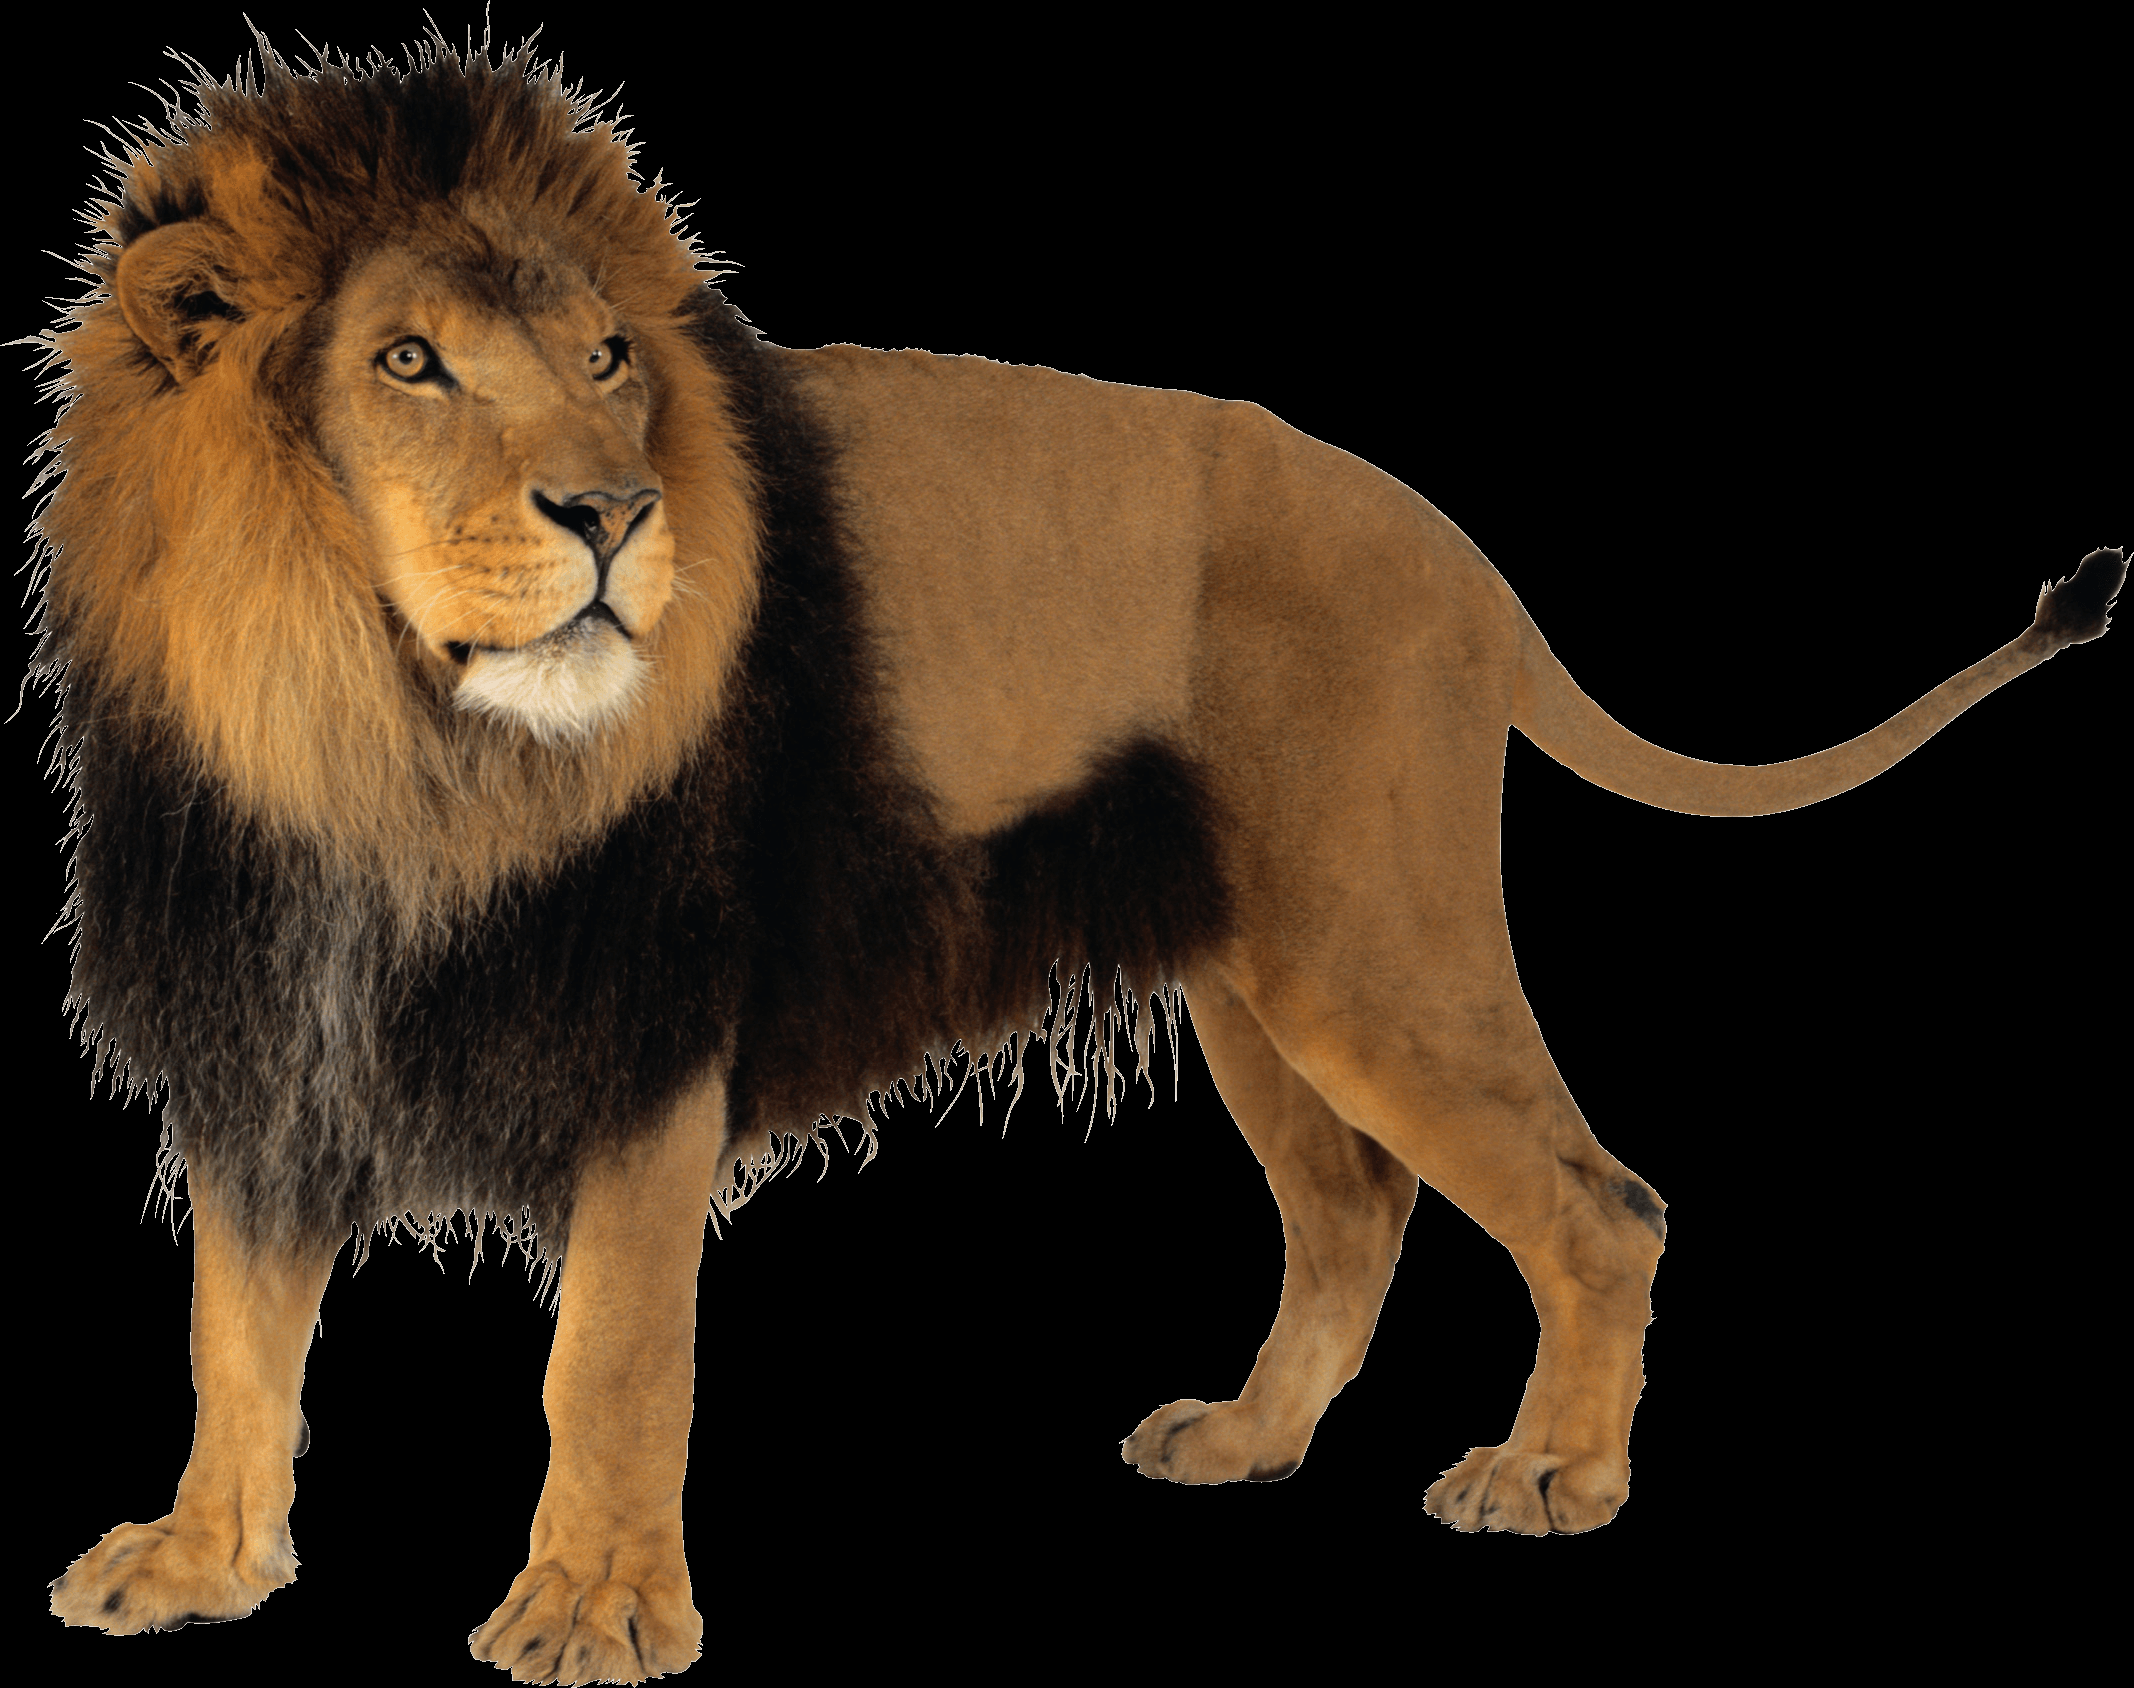
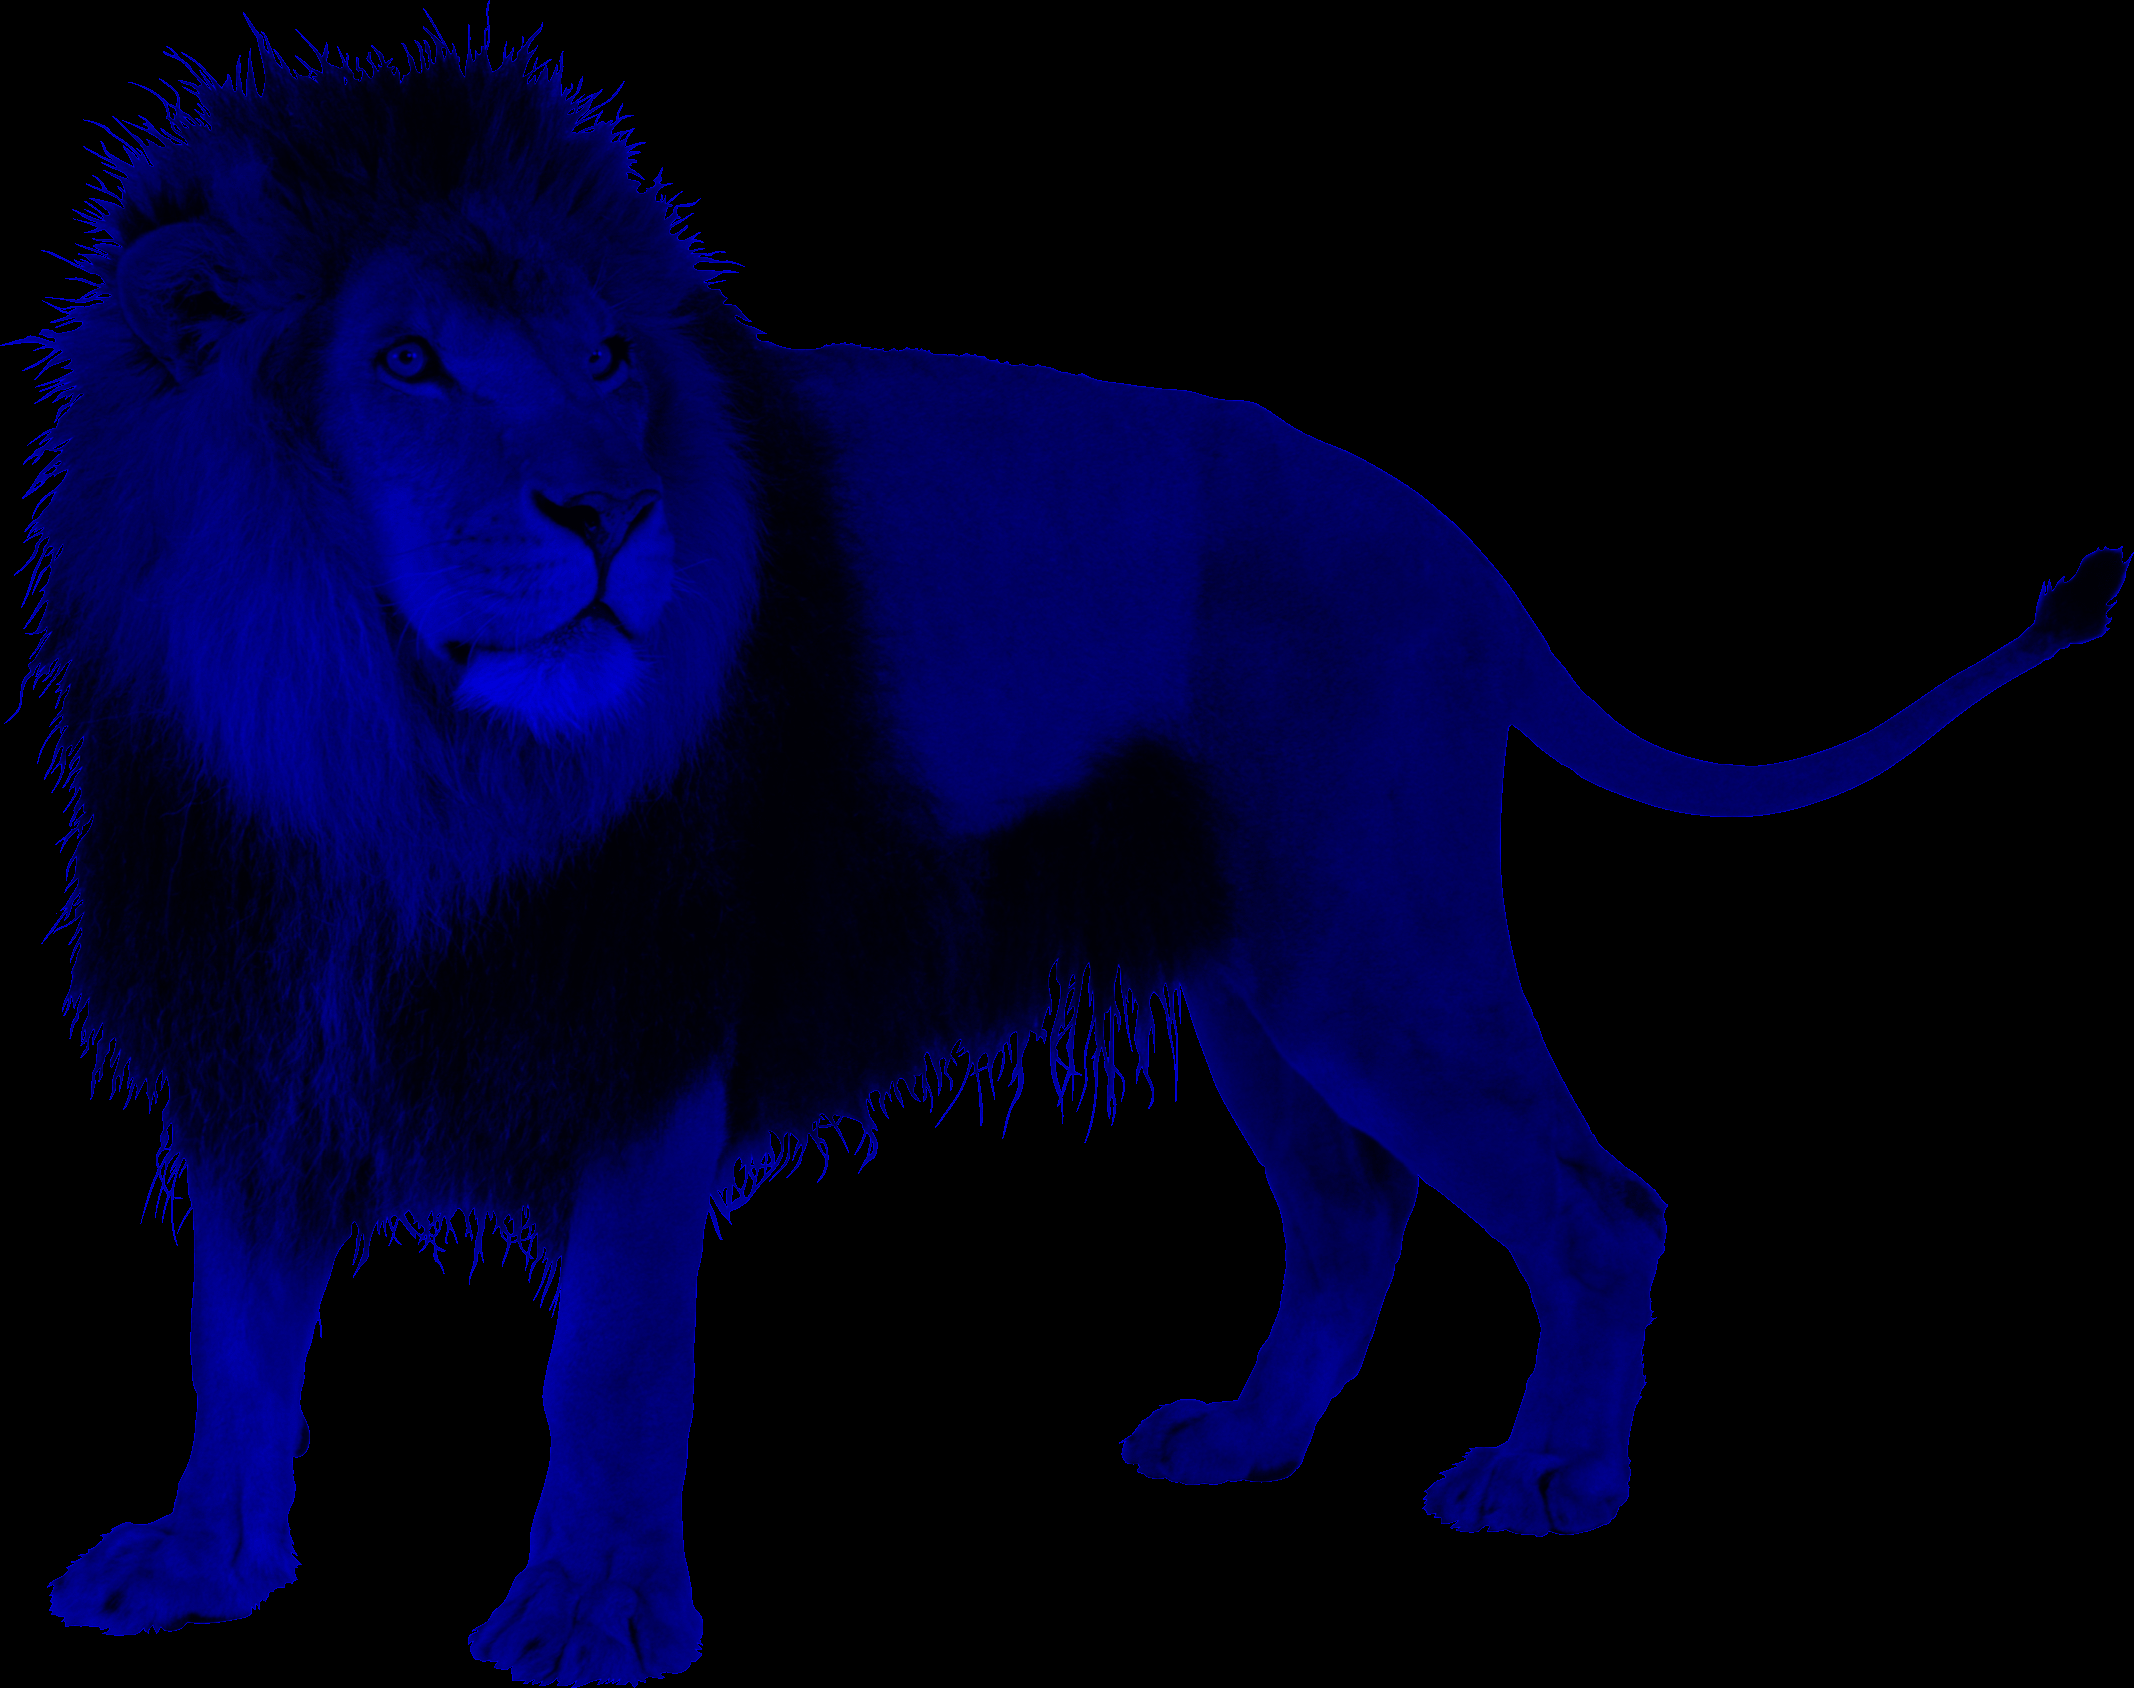
noir

diff --git a/untitled/src/ImageNoirEtBlanc.java b/untitled/src/ImageNoirEtBlanc.java
@@ -1,0 +1,36 @@
+import javax.imageio.ImageIO;
+import java.awt.*;
+import java.awt.image.BufferedImage;
+import java.io.File;
+import java.io.IOException;
+
+public class ImageNoirEtBlanc {
+
+    public void processImage(String nomFichier) {
+        try {
+            String nomFichier1 = nomFichier.substring(0, nomFichier.lastIndexOf("."));
+            String chemin = "src/assets/" + nomFichier;
+            File inputfile = new File(chemin);
+            BufferedImage originalImage = ImageIO.read(inputfile);
+
+            BufferedImage newImage = new BufferedImage(originalImage.getWidth(), originalImage.getHeight(), BufferedImage.TYPE_3BYTE_BGR);
+
+            for (int y = 0; y < originalImage.getHeight(); y++) {
+                for (int x = 0; x < originalImage.getWidth(); x++) {
+                    int rgb = originalImage.getRGB(x, y);
+                    int[] tabColor = OutilCouleur.getTabColor(rgb);
+                    int moyenne = (tabColor[0] + tabColor[1] + tabColor[2]) / 3;
+                    Color gris = new Color(moyenne, moyenne, moyenne);
+                    newImage.setRGB(x, y, gris.getRGB());
+                }
+            }
+
+            File outputfile = new File("src/assets/" + nomFichier1 + "_copieNoirEtBlanc.png");
+            ImageIO.write(newImage, "png", outputfile);
+
+            System.out.println("Image sauvegardée");
+        } catch (IOException e) {
+            System.out.println("Erreur lors de la sauvegarde de l'image");
+        }
+    }
+}

diff --git a/untitled/src/Main.java b/untitled/src/Main.java
@@ -1,11 +1,12 @@
 public class Main {
     public static void main(String[] args) {
-        System.out.println("Hello world!");
-        System.out.println("Hello world!");
         //ManipImage manipImage = new ManipImage();
         //manipImage.sauvegarderImage("R.png");
 
-        ChargeImage imageProcessor = new ChargeImage();
-        imageProcessor.processImage("R.png");
+        //ChargeImage imageProcessor = new ChargeImage();
+        //imageProcessor.processImage("R.png");
+
+        ImageNoirEtBlanc imageNoirEtBlanc = new ImageNoirEtBlanc();
+        imageNoirEtBlanc.processImage("R.png");
     }
 }

diff --git a/untitled/src/OutilCouleur.java b/untitled/src/OutilCouleur.java
@@ -1,0 +1,9 @@
+public class OutilCouleur {
+    public static int[] getTabColor(int color) {
+        int blue = color & 0xff;
+        int green = (color & 0xff00) >> 8;
+        int red = (color & 0xff0000) >> 16;
+
+        return new int[]{red, green, blue};
+    }
+}
